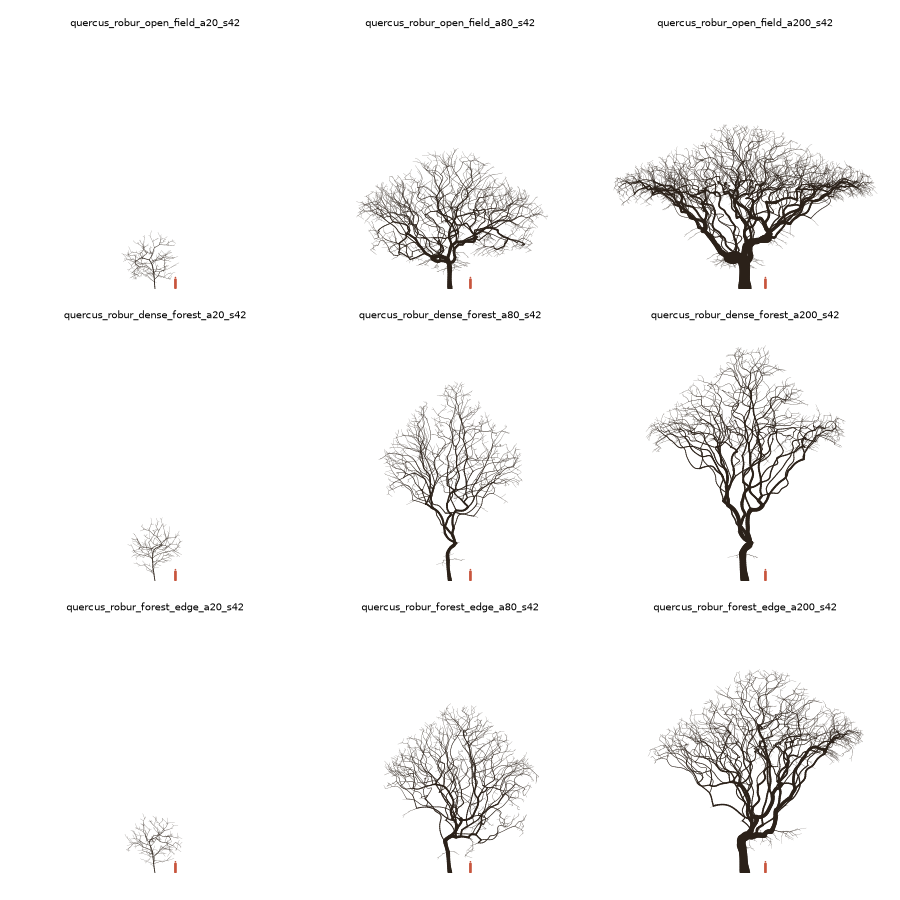
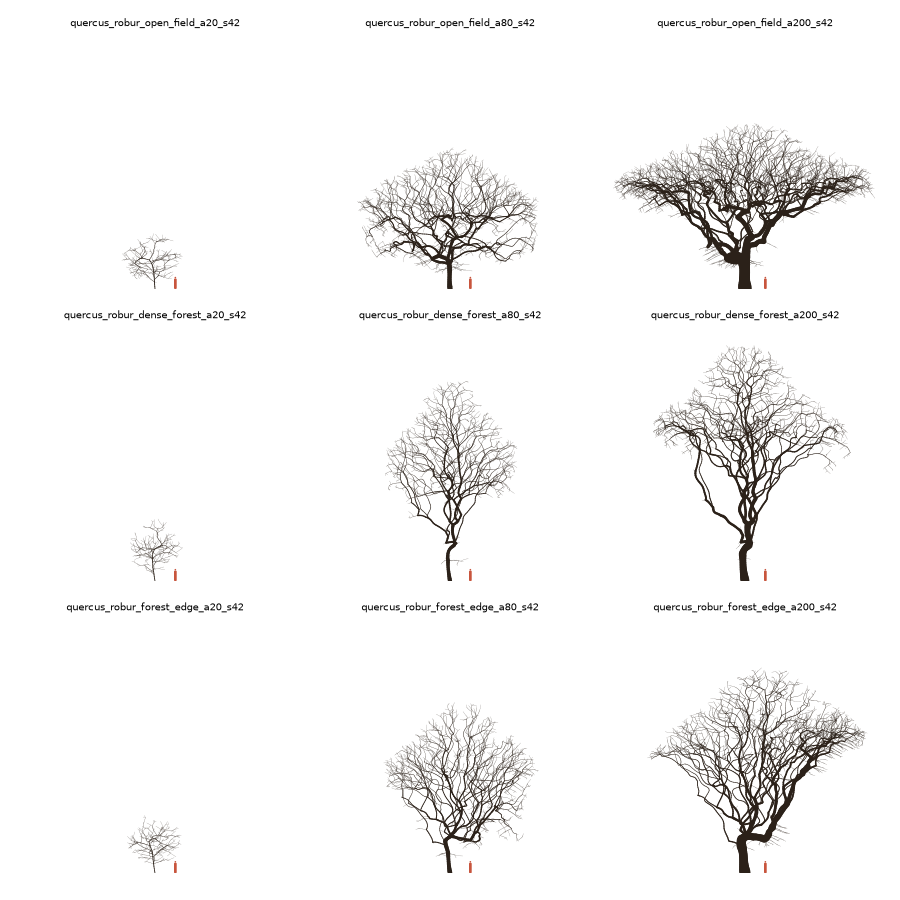
Keep limbs from looping back on themselves
Oak limbs run close to straight and change direction at forks. Give a
species the means to grow limbs that way, and hold side shoots to the
same no-downhill rule as the shoots they leave.

diff --git a/treegen/core/growth.py b/treegen/core/growth.py
@@ -347,9 +347,16 @@ def grow(params: dict, scene: Scene, seed: int, age: float, progress=None) -> Gr
             lead = _leader_tip(nodes)
             dirs[src == lead] += G["trunk_bias"] * 2.0 * UP
         dirs = normalize(dirs)
-        dirs[:, 1] = np.maximum(dirs[:, 1], -0.2)       # gravitropism: wood does not grow downhill
+        dirs = _enforce_branch_angle(nodes, src, dirs, ang_mean, ang_var, seed, A["branch_angle_max"])
+        if G["max_turn"] > 0 and ext.any():
+            # a growing shoot curves gently; sharp direction changes belong to forks
+            heading = normalize(nodes.pos[src[ext]] - nodes.pos[nodes.parent[src[ext]]])
+            dirs[ext] = _limit_turn(heading, dirs[ext], math.radians(G["max_turn"]))
+        if G["centrifugal"] > 0:
+            dirs = _centrifugal(nodes.pos[src], dirs, G["centrifugal"])
+        # gravitropism last, so nothing after it can point wood downhill
+        dirs[:, 1] = np.maximum(dirs[:, 1], -0.2)
         dirs = normalize(dirs)
-        dirs = _enforce_branch_angle(nodes, src, dirs, ang_mean, ang_var, seed)
 
         new = nodes.pos[src] + dirs * step
         dn, _ = tree.query(new, k=1)
@@ -461,8 +468,10 @@ def _self_prune(nodes: _Nodes, share: float, min_age: float, year: float) -> int
     A real limb grows many side shoots and most are starved by stronger siblings and
     drop off; the survivors are the widely spaced forks of a winter oak. Shedding by
     absolute darkness alone keeps them, since their tips sit at the lit crown edge.
-    So at each fork, a child carrying less than `share` of the tips of its strongest
-    sibling is shed once it is `min_age` years old. Young twigs at the edge are below
+    So at each fork, a side branch carrying less than `share` of the tips of its
+    strongest sibling is shed once it is `min_age` years old. A limb's own leader (its
+    first child) is never pruned: pruning leaders made limbs out of successive side
+    branches, each turning the same way, and the limbs spiralled. Young twigs at the edge are below
     that age, so they stay in clumps. Their tips still count toward the parent's pipe
     radius, as for any shed limb.
     """
@@ -482,8 +491,9 @@ def _self_prune(nodes: _Nodes, share: float, min_age: float, year: float) -> int
     best = np.zeros(n)
     np.maximum.at(best, par[ch], tipcount[ch])
     base = np.zeros(n, bool)
+    lateral = nodes.first_child[par[ch]] != ch        # a limb's own leader is never pruned
     base[ch] = ((tipcount[ch] < share * best[par[ch]]) & (nodes.birth[ch] <= year - min_age)
-                & ~nodes.stem[ch])
+                & ~nodes.stem[ch] & lateral)
     if not base.any():
         return 0
     mark = base.copy()
@@ -680,8 +690,52 @@ def _bridge(nodes, start, target, infl, step, apical, year):
         k = int(nodes.add((p + d * step)[None], np.array([k]), year)[0])
 
 
-def _enforce_branch_angle(nodes, src, dirs, mean_deg, var_deg, seed):
-    """Laterals diverge from their sibling continuation by at least a sampled branch angle."""
+def _centrifugal(pos, dirs, strength):
+    """Crowns grow outward: cap how fast new wood may head back toward the trunk axis.
+
+    Pruning empties the inside of the crown of wood but not of attractors, and tips at
+    the edge then hook back inward after them, making loops. The horizontal component
+    of a direction toward the axis is limited to (1 - strength) of its length, so at 1
+    no new wood heads inward at all. Wood within 1 m of the axis is left free.
+    """
+    r = pos[:, [0, 2]]
+    rn = np.linalg.norm(r, axis=1)
+    far = rn > 1.0
+    if not far.any():
+        return dirs
+    out = dirs.copy()
+    rhat = np.zeros_like(r)
+    rhat[far] = r[far] / rn[far, None]
+    radial = (dirs[:, [0, 2]] * rhat).sum(1)              # < 0 = heading inward
+    cap = -(1.0 - strength)
+    fix = far & (radial < cap)
+    out[fix, 0] += (cap - radial[fix]) * rhat[fix, 0]
+    out[fix, 2] += (cap - radial[fix]) * rhat[fix, 1]
+    return normalize(out)
+
+
+def _limit_turn(heading, dirs, max_rad):
+    """Rotate each dir toward its heading so it turns at most max_rad from it."""
+    cos = np.clip((dirs * heading).sum(1), -1.0, 1.0)
+    over = np.arccos(cos) > max_rad
+    if not over.any():
+        return dirs
+    h, d = heading[over], dirs[over]
+    perp = d - cos[over, None] * h
+    pn = np.linalg.norm(perp, axis=1, keepdims=True)
+    # a full reversal has no preferred side: turn toward up, then any horizontal
+    alt = UP - (h @ UP)[:, None] * h
+    alt = np.where(np.linalg.norm(alt, axis=1, keepdims=True) < 1e-6, np.array([1.0, 0, 0]), alt)
+    perp = np.where(pn < 1e-6, alt, perp)
+    perp = normalize(perp)
+    out = dirs.copy()
+    out[over] = math.cos(max_rad) * h + math.sin(max_rad) * perp
+    return out
+
+
+def _enforce_branch_angle(nodes, src, dirs, mean_deg, var_deg, seed, max_deg=0.0):
+    """Laterals diverge from their sibling continuation by at least a sampled branch angle,
+    and by at most max_deg when it is set (no side branch sprouting backwards)."""
     has = nodes.first_child[src] >= 0
     if not has.any():
         return dirs
@@ -692,7 +746,12 @@ def _enforce_branch_angle(nodes, src, dirs, mean_deg, var_deg, seed):
     u = hash01(src[idx], seed, 5) * 2 - 1
     target = np.radians(np.clip(mean_deg + var_deg * u, 5, 175))
     cosang = np.clip((d * cdir).sum(1), -1, 1)
-    need = np.arccos(cosang) < target
+    ang = np.arccos(cosang)
+    if max_deg > 0:
+        target = np.where(ang > np.radians(max_deg), np.radians(max_deg), target)
+        need = (ang < target) | (ang > np.radians(max_deg))
+    else:
+        need = ang < target
     if not need.any():
         return dirs
     perp = d - cosang[:, None] * cdir

diff --git a/tests/test_growth.py b/tests/test_growth.py
@@ -92,9 +92,10 @@ def test_bole_height_raises_the_first_fork(small_oak):
     from treegen.metrics import tree_metrics
     off = _with(small_oak, "architecture", bole_height=0.0)
     plain = tree_metrics(assemble_skeleton(grow(off, Scene(), 5, 80), off, 5))
-    p = _with(small_oak, "architecture", bole_height=4.0)
+    p = _with(small_oak, "architecture", bole_height=6.0)
     lifted = tree_metrics(assemble_skeleton(grow(p, Scene(), 5, 80), p, 5))
-    assert lifted["first_fork"] >= 4.0 > plain["first_fork"]
+    # lifting runs each light epoch, so the line at age 80 is the one from the last epoch
+    assert lifted["first_fork"] >= 0.85 * 6.0 and lifted["first_fork"] > plain["first_fork"]
     assert lifted["height"] > 0.8 * plain["height"]                 # the crown survives
 
 
@@ -140,3 +141,24 @@ def test_self_pruning_with_bud_lifetime_lengthens_inner_wood(small_oak):
     b = tree_metrics(assemble_skeleton(grow(on, Scene(), 42, 120), on, 42))
     assert b["stick_inner"] > 1.5 * a["stick_inner"]
     assert b["branches"] < a["branches"]
+
+
+def test_straightening_rules_reduce_limb_waviness(small_oak):
+    """Turn limit, maximum branch angle and centrifugal growth keep limbs from looping."""
+    def sinuosity(params):
+        sk = assemble_skeleton(grow(params, Scene(), 42, 120), params, 42)
+        vals = []
+        for c in np.flatnonzero((sk.order >= 1) & (sk.order <= 2)):
+            a, b = sk.offsets[c] + 1, sk.offsets[c + 1]
+            P = sk.points[a:b]
+            if len(P) < 10:
+                continue
+            for i in range(0, len(P) - 9, 3):
+                path = np.linalg.norm(np.diff(P[i:i + 10], axis=0), axis=1).sum()
+                vals.append(path / max(np.linalg.norm(P[i + 9] - P[i]), 1e-9))
+        return np.percentile(vals, 90)
+    loose = _with(small_oak, "growth", max_turn=0.0, centrifugal=0.0)
+    loose = _with(loose, "architecture", branch_angle_max=0.0)
+    tight = _with(small_oak, "growth", max_turn=10.0, centrifugal=1.0)
+    tight = _with(tight, "architecture", branch_angle_max=65.0)
+    assert sinuosity(tight) < sinuosity(loose)

diff --git a/treegen/schema.py b/treegen/schema.py
@@ -67,11 +67,20 @@ SCHEMA: list[Param] = [
     P("growth", "bud_years", 0.0, lo=0, hi=50, unit="years",
       doc="Side buds only break on wood younger than this; older wood stays bare and only tips extend. "
           "With prune_share, stops pruned side branches simply regrowing. 0 = any wood can sprout"),
+    P("growth", "centrifugal", 0.0, lo=0, hi=1,
+      doc="Crowns grow outward: 1 = new wood never heads back toward the trunk axis, 0 = free. "
+          "Stops edge shoots hooking back into a crown that pruning has emptied"),
+    P("growth", "max_turn", 0.0, lo=0, hi=90, unit="deg",
+      doc="Most a growing shoot may turn per step; direction changes sharper than this only happen "
+          "at forks (elbows). Stops limbs looping back on themselves. 0 = unlimited"),
     P("growth", "trunk_bias", 0.0, lo=0, hi=1,
       doc="Extra vertical bias on the leader only (conifers)"),
     # architecture ----------------------------------------------------------
     P("architecture", "branch_angle", {"mean": 48.0, "var": 12.0}, "dict", unit="deg",
       doc="Minimum divergence between a lateral and its sibling continuation"),
+    P("architecture", "branch_angle_max", 0.0, lo=0, hi=175, unit="deg",
+      doc="Largest divergence a new side branch may take from its parent's continuation; stops side "
+          "branches sprouting backwards toward the trunk. 0 = no limit"),
     P("architecture", "max_order", 4, "int", lo=0, hi=12, doc="Branches above this order are pruned at extraction"),
     P("architecture", "max_unbranched", 0.0, lo=0, hi=30, unit="m",
       doc="Longest a 10 cm thick limb may grow past its last real fork; thicker limbs may run further, "

diff --git a/docs/HANDOFF.md b/docs/HANDOFF.md
@@ -362,6 +362,41 @@ wavy S-curves and loops that the interior twigs used to hide. Real oak limbs run
 straight between elbow kinks. Next: fix limb tortuosity, then decide the oak values,
 then the planned geometry-stage twig-cluster pass (tufts below the 0.35 m node spacing).
 
+### Limb waviness (2026-10-09, in progress)
+
+Measured as sinuosity (path / chord over 3 m windows) on orders 1-2. A real oak limb is
+~1.05 over 3 m, changing direction at forks (elbows). The oak was 1.14-1.18 median at
+80 y; with pruning on, worst 10% of windows reached 2.1-2.4 at 200 y (U-turns). The
+waviness comes from growth, not refinement (refinement smooths it slightly).
+`growth.straightness` up to 3 does not help: the loops are not per-step jitter.
+
+Traced the worst windows node by node (scratch script, see session); causes and fixes:
+1. Gravitropism clamp ran before the branch-angle rule, so side shoots could be rotated
+   steeply downward (y -0.88 seen). Fixed: clamp last. Applies to every tree; the
+   approved oak moved by height +/-0.4 m, width +/-0.6 m, lean slightly stronger, up to
+   5 whips at the forest edge. Baseline and sheet re-recorded.
+2. A tip resuming after a stall could turn 77 degrees in one step. New `growth.max_turn`
+   (degrees per step for an extending tip).
+3. Side branches could sprout backwards (151 degrees seen). New
+   `architecture.branch_angle_max`.
+4. Self-pruning could kill a limb's own leader, so limbs became chains of side branches
+   turning the same way. Pruning now never removes a leader (first child).
+5. Edge shoots hooked back into the interior that pruning had emptied (its attractors
+   stay live). New `growth.centrifugal` (1 = no new wood heads back toward the axis).
+
+With 10 deg / 65 deg / 1.0 plus pruning: sinuosity median ~1.11-1.12 at 80 and 200 y,
+worst 10% 1.26-1.34 at 80 y and 1.55-1.60 at 200 y (was 2.1-2.4). All three default off.
+
+Not adopted for the oak. At 80 y the trees look more like the winter photo than any
+version so far (straighter, angular limbs, branching at the edge). At 200 y the
+open-field and edge oaks become flat umbrellas (tall bare trunk, a table of straight
+horizontal limbs, vertical spikes) and the dense-forest oak keeps loops in the vertical
+plane (centrifugal only acts horizontally). Cause: over 200 years pruning + bud lifetime
+strip the lower and inner crown with nothing able to regrow it, while the age curve
+raises shed_threshold to 0.3, leaving a shell on top. That is the next problem: the
+old-tree crown model, not the limbs. Candidate settings to try in the viewer are in
+`out/straight/quercus_straight.toml` (untracked).
+
 ## 6. Working agreements from the session
 
 - Windows PowerShell is the environment; quote comma-separated CLI lists.
